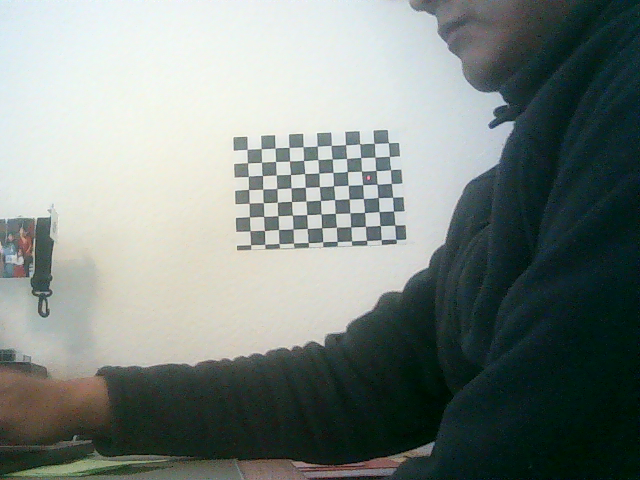
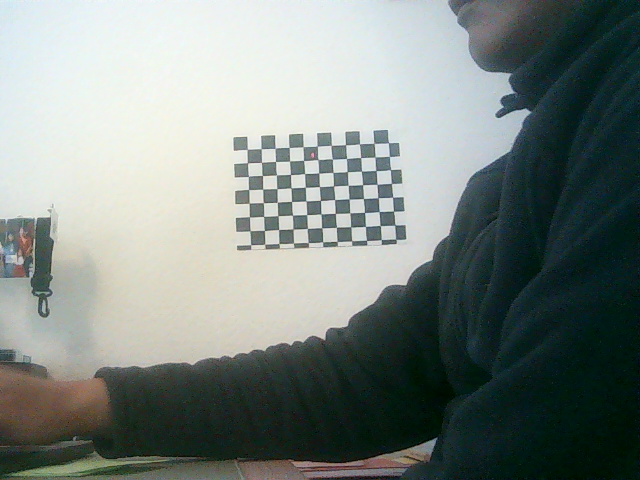
before getting data with new chess pattern (a good one)

diff --git a/0045_laser_calibrate.py b/0045_laser_calibrate.py
@@ -2,6 +2,8 @@ import cv2, glob
 import libs.cam_calib_utils as ccu
 import numpy as np
 import time
+import imutils
+from scipy.linalg import null_space
 
 # load servos file:
 folder_path = './cal_laser/'
@@ -31,8 +33,6 @@ def corner_indexes(ptrn_size, sqr_idx):
     idxs.append(sqr_idx+u+N +1)
     idxs.append(sqr_idx+u+N   )
     return idxs
-
-
 def get_black_sqr_idxs(ptrn_size,first_black_idx):
     '''
     Returns the indexes of the black squares. Consider the following pattern:
@@ -56,9 +56,6 @@ def get_black_sqr_idxs(ptrn_size,first_black_idx):
             first_black_idx = first_black_idx%2
 
     return sqr_idx_list
-
-
-
 def get_chess_black_squares(frame, P_pxl, ptrn_size, erode_flag=False):
     '''
     Return a mask that only contains the black squares from the chessboard.
@@ -94,18 +91,52 @@ def get_chess_black_squares(frame, P_pxl, ptrn_size, erode_flag=False):
         cv2.fillPoly(final_mask,[sqr_pnts.T],(255))
 
     # Step 3: erode to reduce the white spaces:
-    kernel = np.ones((7,7),np.uint8)
+    kernel = np.ones((8,8),np.uint8)
     final_mask = cv2.erode(final_mask,kernel,iterations = 1)
 
     frame_black_sqrs = cv2.bitwise_and(frame,frame,mask=final_mask)  
     
     return frame_black_sqrs, final_mask
+def get_laser_pixel_coords_from_black_squares(frm, thr):
+    
+    # step 1: threshold the image
+    mask = cv2.threshold(frm, thr, 255, cv2.THRESH_BINARY)[1]
+
+    # step 2: find the center of the blob (the blob should be only one at the beam location)
+    mask_contour = mask.copy()
+    contours = cv2.findContours(mask, cv2.RETR_EXTERNAL, cv2.CHAIN_APPROX_SIMPLE)
+    contours = imutils.grab_contours(contours)
+    x_pxl, y_pxl = -1, -1
+    bigest_area = -np.Inf
+    for cntr in contours:
+        M = cv2.moments(cntr)
+        if bigest_area < M['m00'] and M['m00'] > 0:
+            bigest_area = M['m00']
+            x_pxl = M["m10"] / M["m00"]
+            y_pxl = M["m01"] / M["m00"]
+
+    # output
+    ret = bigest_area != -np.Inf
+    L_pxl = np.array([[x_pxl],[y_pxl]])
+    return ret, L_pxl
+
+
+# Load camera matrices
+cal_file_pref = './out/cal1'
+_, dist, img_size, mtx_new, _ = ccu.load_camera_calibration_matrices(cal_file_pref)
+
 
 # Each row in the file contain the name of the image and the angles of the servos.
 # Notice that only one point is recovered per row (Since we have a single beam).
 srvs_data = srvs_data.split('\n')
+srvs_data = srvs_data[:-1]
+
+U_list = []
+L_pxl_list = []
+L_w_list = []
+cam2w_info_list = []
 for row in srvs_data:
-    #row = srvs_data[2]
+    #row = srvs_data[1]
     row = row.split('\t')
 
     # load the image
@@ -118,25 +149,94 @@ for row in srvs_data:
     # Step 1: find the chess pattern in the image to remove everything from around.
     frame_grey = cv2.cvtColor(frame, cv2.COLOR_RGB2GRAY)
     ptrn_size = ((11,7))
-    P_chs_list, P_pxl_list,img_size = ccu.find_sequence_chessboard_points([img_name], ptrn_size,False)
+    ret, P_chs_list, P_pxl_list, img_size = ccu.find_sequence_chessboard_points([img_name], ptrn_size,False)
+    if ret==False: # some pictures do not find the chessboard.
+        continue
+    
+    # Step 2: mask and retrieve only the black squares in the chessboard
     fr_sqr_black, roi_mask = get_chess_black_squares(frame_grey, P_pxl_list[0].T, ptrn_size)
-    
-    #cv2.imshow('', frame)
-    #cv2.imshow('a', final_mask)
-    cv2.imshow('dd', fr_sqr_black)
-    cv2.waitKey(0)
-    a=2
-    a=2
+    ret, L_pxl = get_laser_pixel_coords_from_black_squares(fr_sqr_black,thr = 140)
+    if ret==False: # some beams are very small.
+        continue
 
-    #for i in range(300):
+    # -------------------------------------------------------------
+    # find the world coordinates point of the laser beam from the pixel coords
+    # -------------------------------------------------------------
+    # Step 3: Using the image pixel and world points, compute R and T.
+    ret, rvec, T=cv2.solvePnP(P_chs_list[0],P_pxl_list[0],mtx_new,dist)
+    R,_ = cv2.Rodrigues(rvec)
+    Ainv = ccu.inv_svd(mtx_new)
 
-        #cv2.imshow('', frame_grey)
+    # Step 4: with R,T,Ainv known we can map any point in the image 
+    #         to the corresponding point in the plane of the chessboard in world coords.
+    L_w = ccu.uv2XYZ(L_pxl, Ainv, R, T)
+
+    # Step 5: lastly recover the rotation angles from the servos and compute the directional vector:
+    theta_deg = 90 + float(row[1])
+    phi_deg = 90 - float(row[2])
+    sin_phi = np.sin(np.deg2rad(phi_deg))
+    cos_phi = np.cos(np.deg2rad(phi_deg))
+    sin_tht = np.sin(np.deg2rad(theta_deg))
+    cos_tht = np.cos(np.deg2rad(theta_deg))
 
 
+    U = np.array([sin_phi*cos_tht, sin_phi*sin_tht, cos_phi])
 
+    # store for further processing:
+    U_list.append(U)
+    L_pxl_list.append(L_pxl)
+    L_w_list.append(L_w)
+    cam2w_info_list.append((R,T,mtx_new,Ainv))
 
-    #print(row)
+    print(row)    
+    #cv2.circle(frame_grey,L_pxl.astype(int)[:,0],10,(255),10,1)
+    #cv2.imshow('', frame_grey)
     #cv2.waitKey(0)
+
+
+# --------------------------------------------------------------------------------
+# --------------------------------------------------------------------------------
+# Up to here we have laser in pixel, world coords. 
+
+def compute_matrix_Lo(L_w, U):
+    xyz = L_w.T
+    u_xl = U[0,:,None]
+    u_yl = U[1,:,None]
+    u_zl = U[2,:,None]
+    A00 =  np.multiply(u_yl,xyz)
+    A01 = -np.multiply(u_xl,xyz)
+    A10 = -np.multiply(u_zl,xyz)
+    Az = np.zeros_like(A00)
+
+    A0 = np.column_stack((A00,A01,Az))
+    A1 = np.column_stack((A10,Az, A01))
+    #A2 = np.column_stack((Az,Az, Az,xyz))
+    A = np.row_stack((A0,A1))
+    U, S, Vh = np.linalg.svd(A, full_matrices=True)
+    #Azzz = A.T.dot(A)
+
+    b = np.row_stack((np.zeros((2*U.shape[1],1)),np.ones((U.shape[1],1))))
+
+
+
+
+    Anull = null_space(A)
+    Ainv = ccu.inv_svd(A)
+    AtA = A.T.dot(A)
+    Atb = A.T.dot(b)
+    xx = ccu.inv_svd(AtA).dot(Atb)
+
+    b = np.zeros((2*U.shape[1],1))
+    Lo = Ainv_left.dot(b)
     
 
+    return Lo
 
+U  = np.stack(tuple(U_list),axis=1).reshape(3,-1)
+L_pxl = np.stack(tuple(L_pxl_list),axis=1).reshape(2,-1)
+L_w = np.stack(tuple(L_w_list),axis=1).reshape(3,-1)
+
+Lo = compute_matrix_Lo(L_pxl, L_w)
+
+#cam2w_info = []
+a=2

diff --git a/libs/cam_calib_utils.py b/libs/cam_calib_utils.py
@@ -66,12 +66,18 @@ def find_sequence_chessboard_points(chess_img_files, ptrn_size, scale_down:False
             P_pxl = cv2.cornerSubPix(frame_gray,P_pxl_tmp,(10,10),(1,-1),criteria)
             P_pxl = P_pxl.reshape(-1,2)
             
+            # Notice that since each point is taken from different images, the origin of the world
+            # coordinates (corner of chessboard with 0 index) might be different.
+            # Ensure that the origin is the left most corner.
+            if P_pxl[0,1] > P_pxl[-1,1]: # P0 to the right of Pf (INVERT ORDER)
+                P_pxl = P_pxl[::-1,:]
+
             # save in the list:
             P_chs_list.append(P_chs)
             P_pxl_list.append(P_pxl)
 
             img_size = frame_gray.shape
-    return P_chs_list, P_pxl_list,img_size
+    return ret, P_chs_list, P_pxl_list,img_size
 
 def load_camera_calibration_matrices(cal_file_pref):
     mtx = np.load(cal_file_pref + '_mtx.npy')
